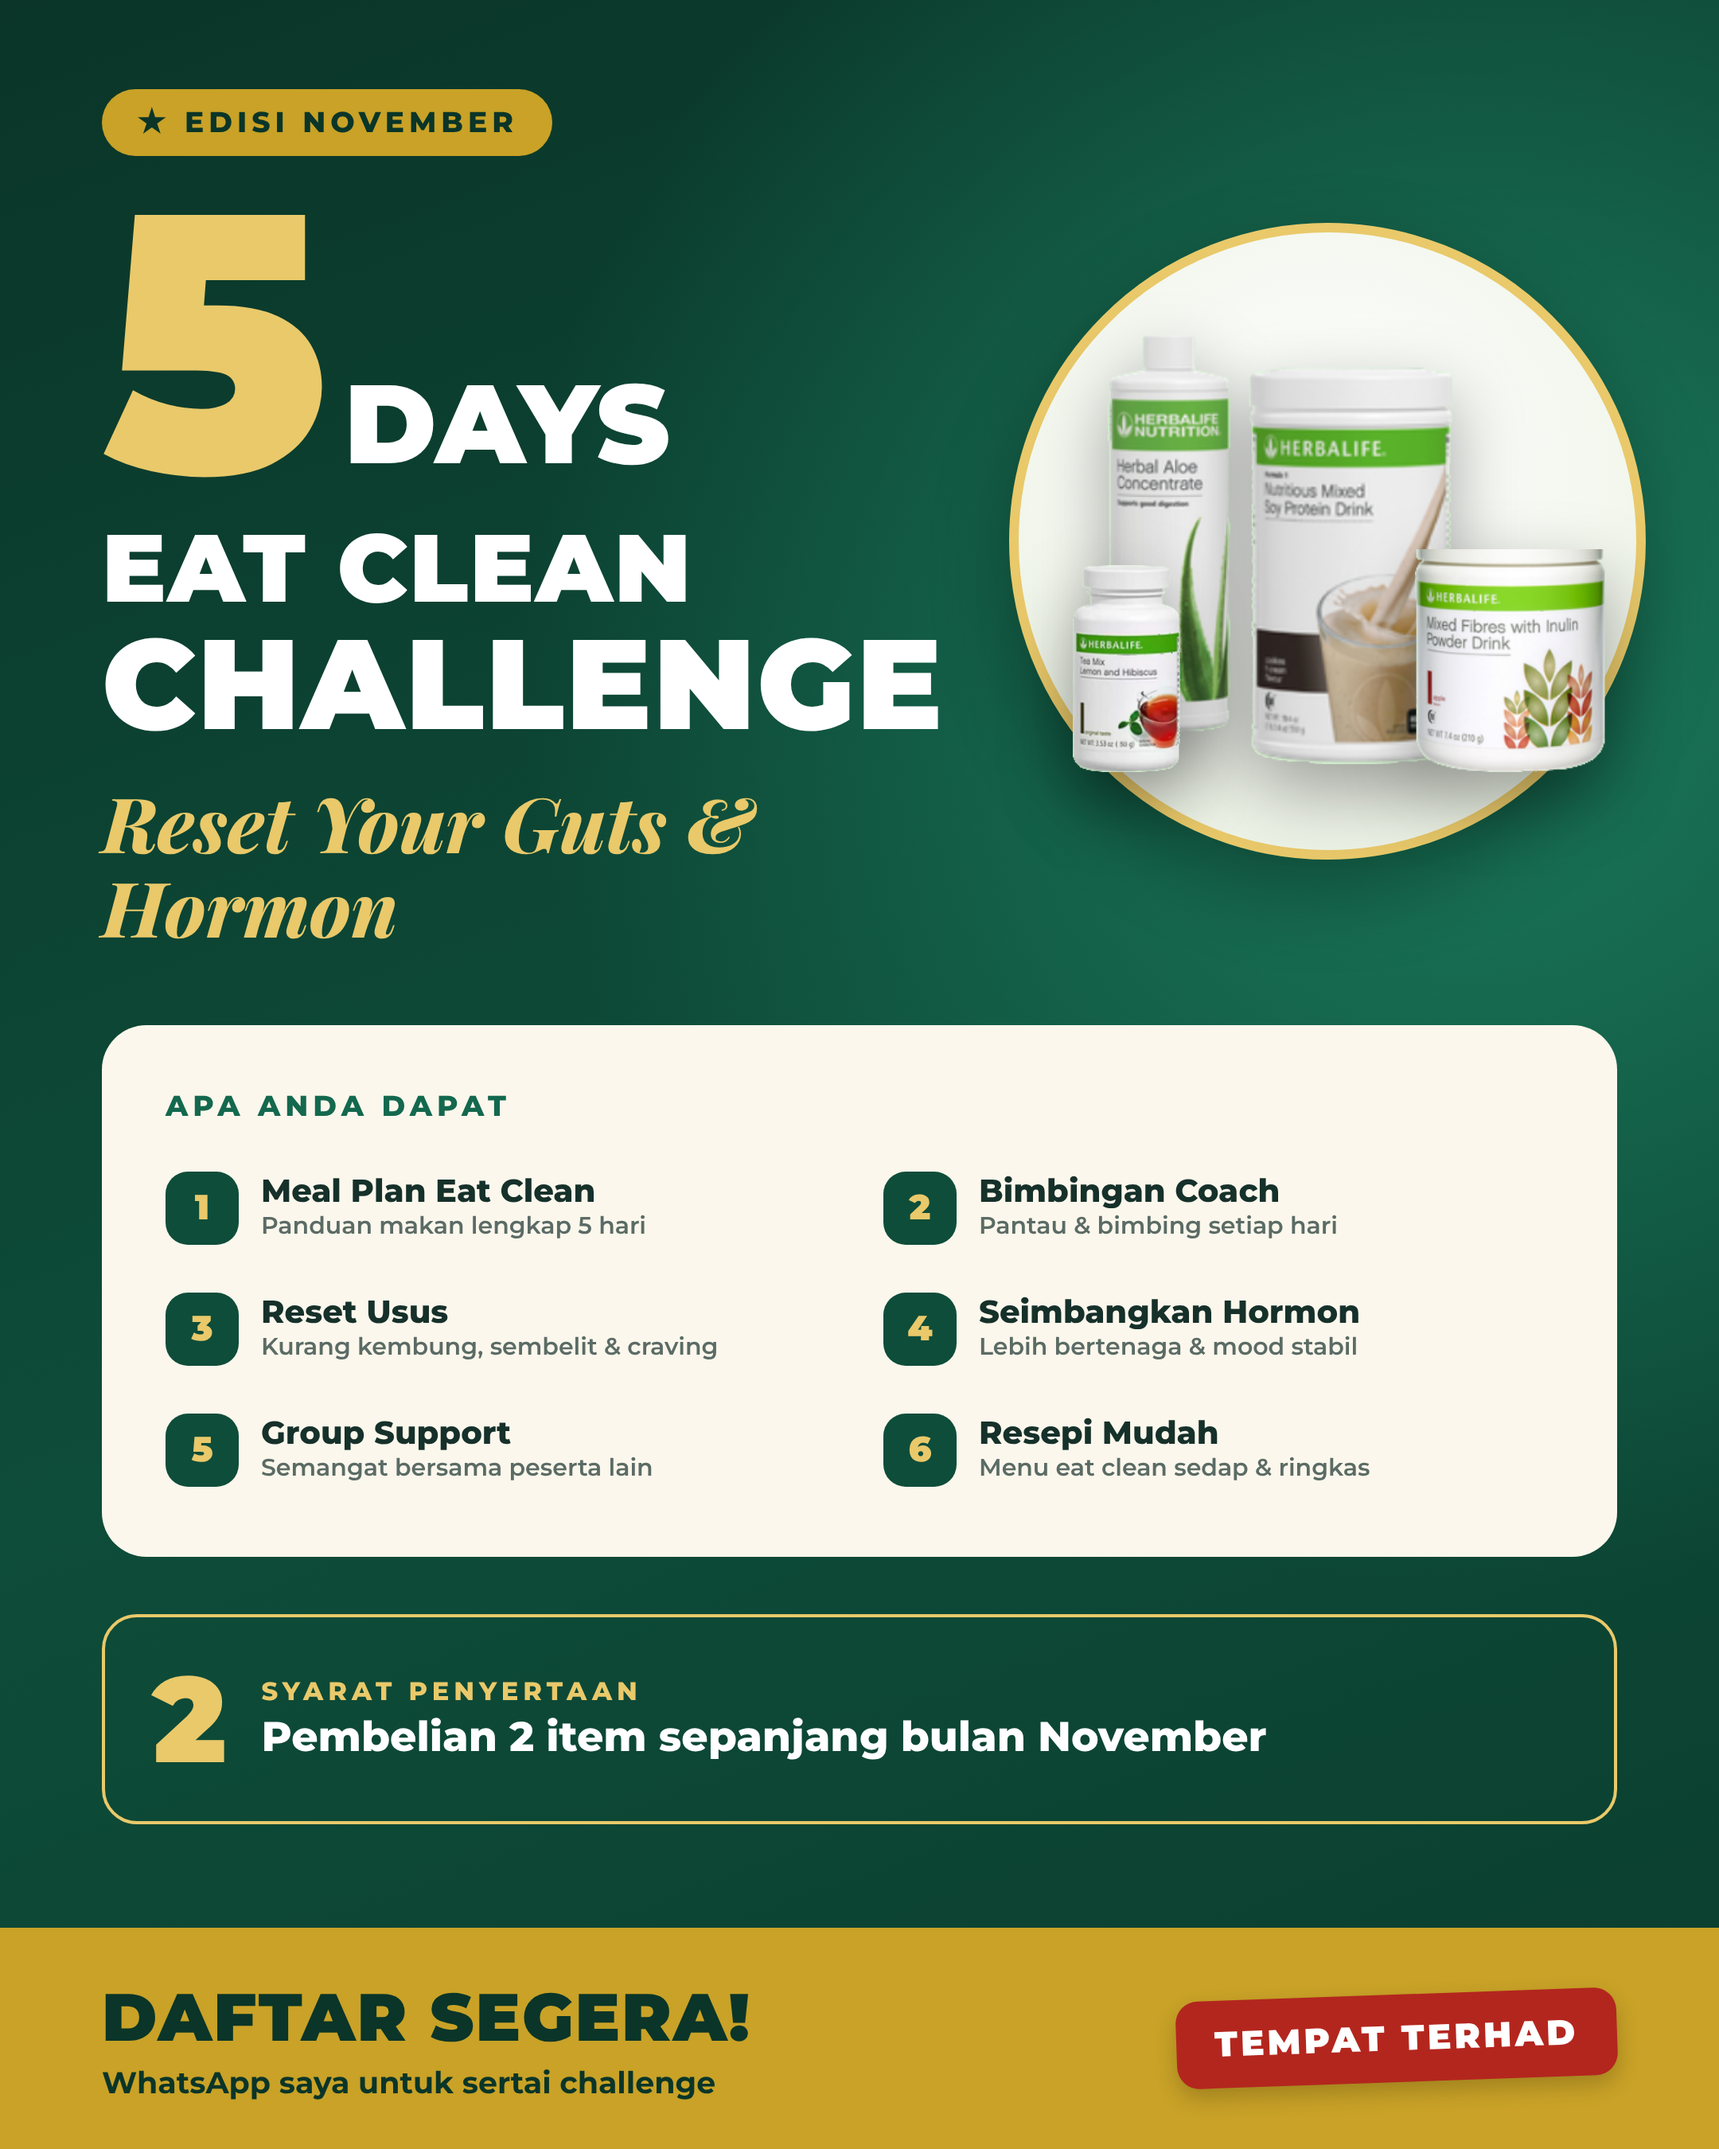
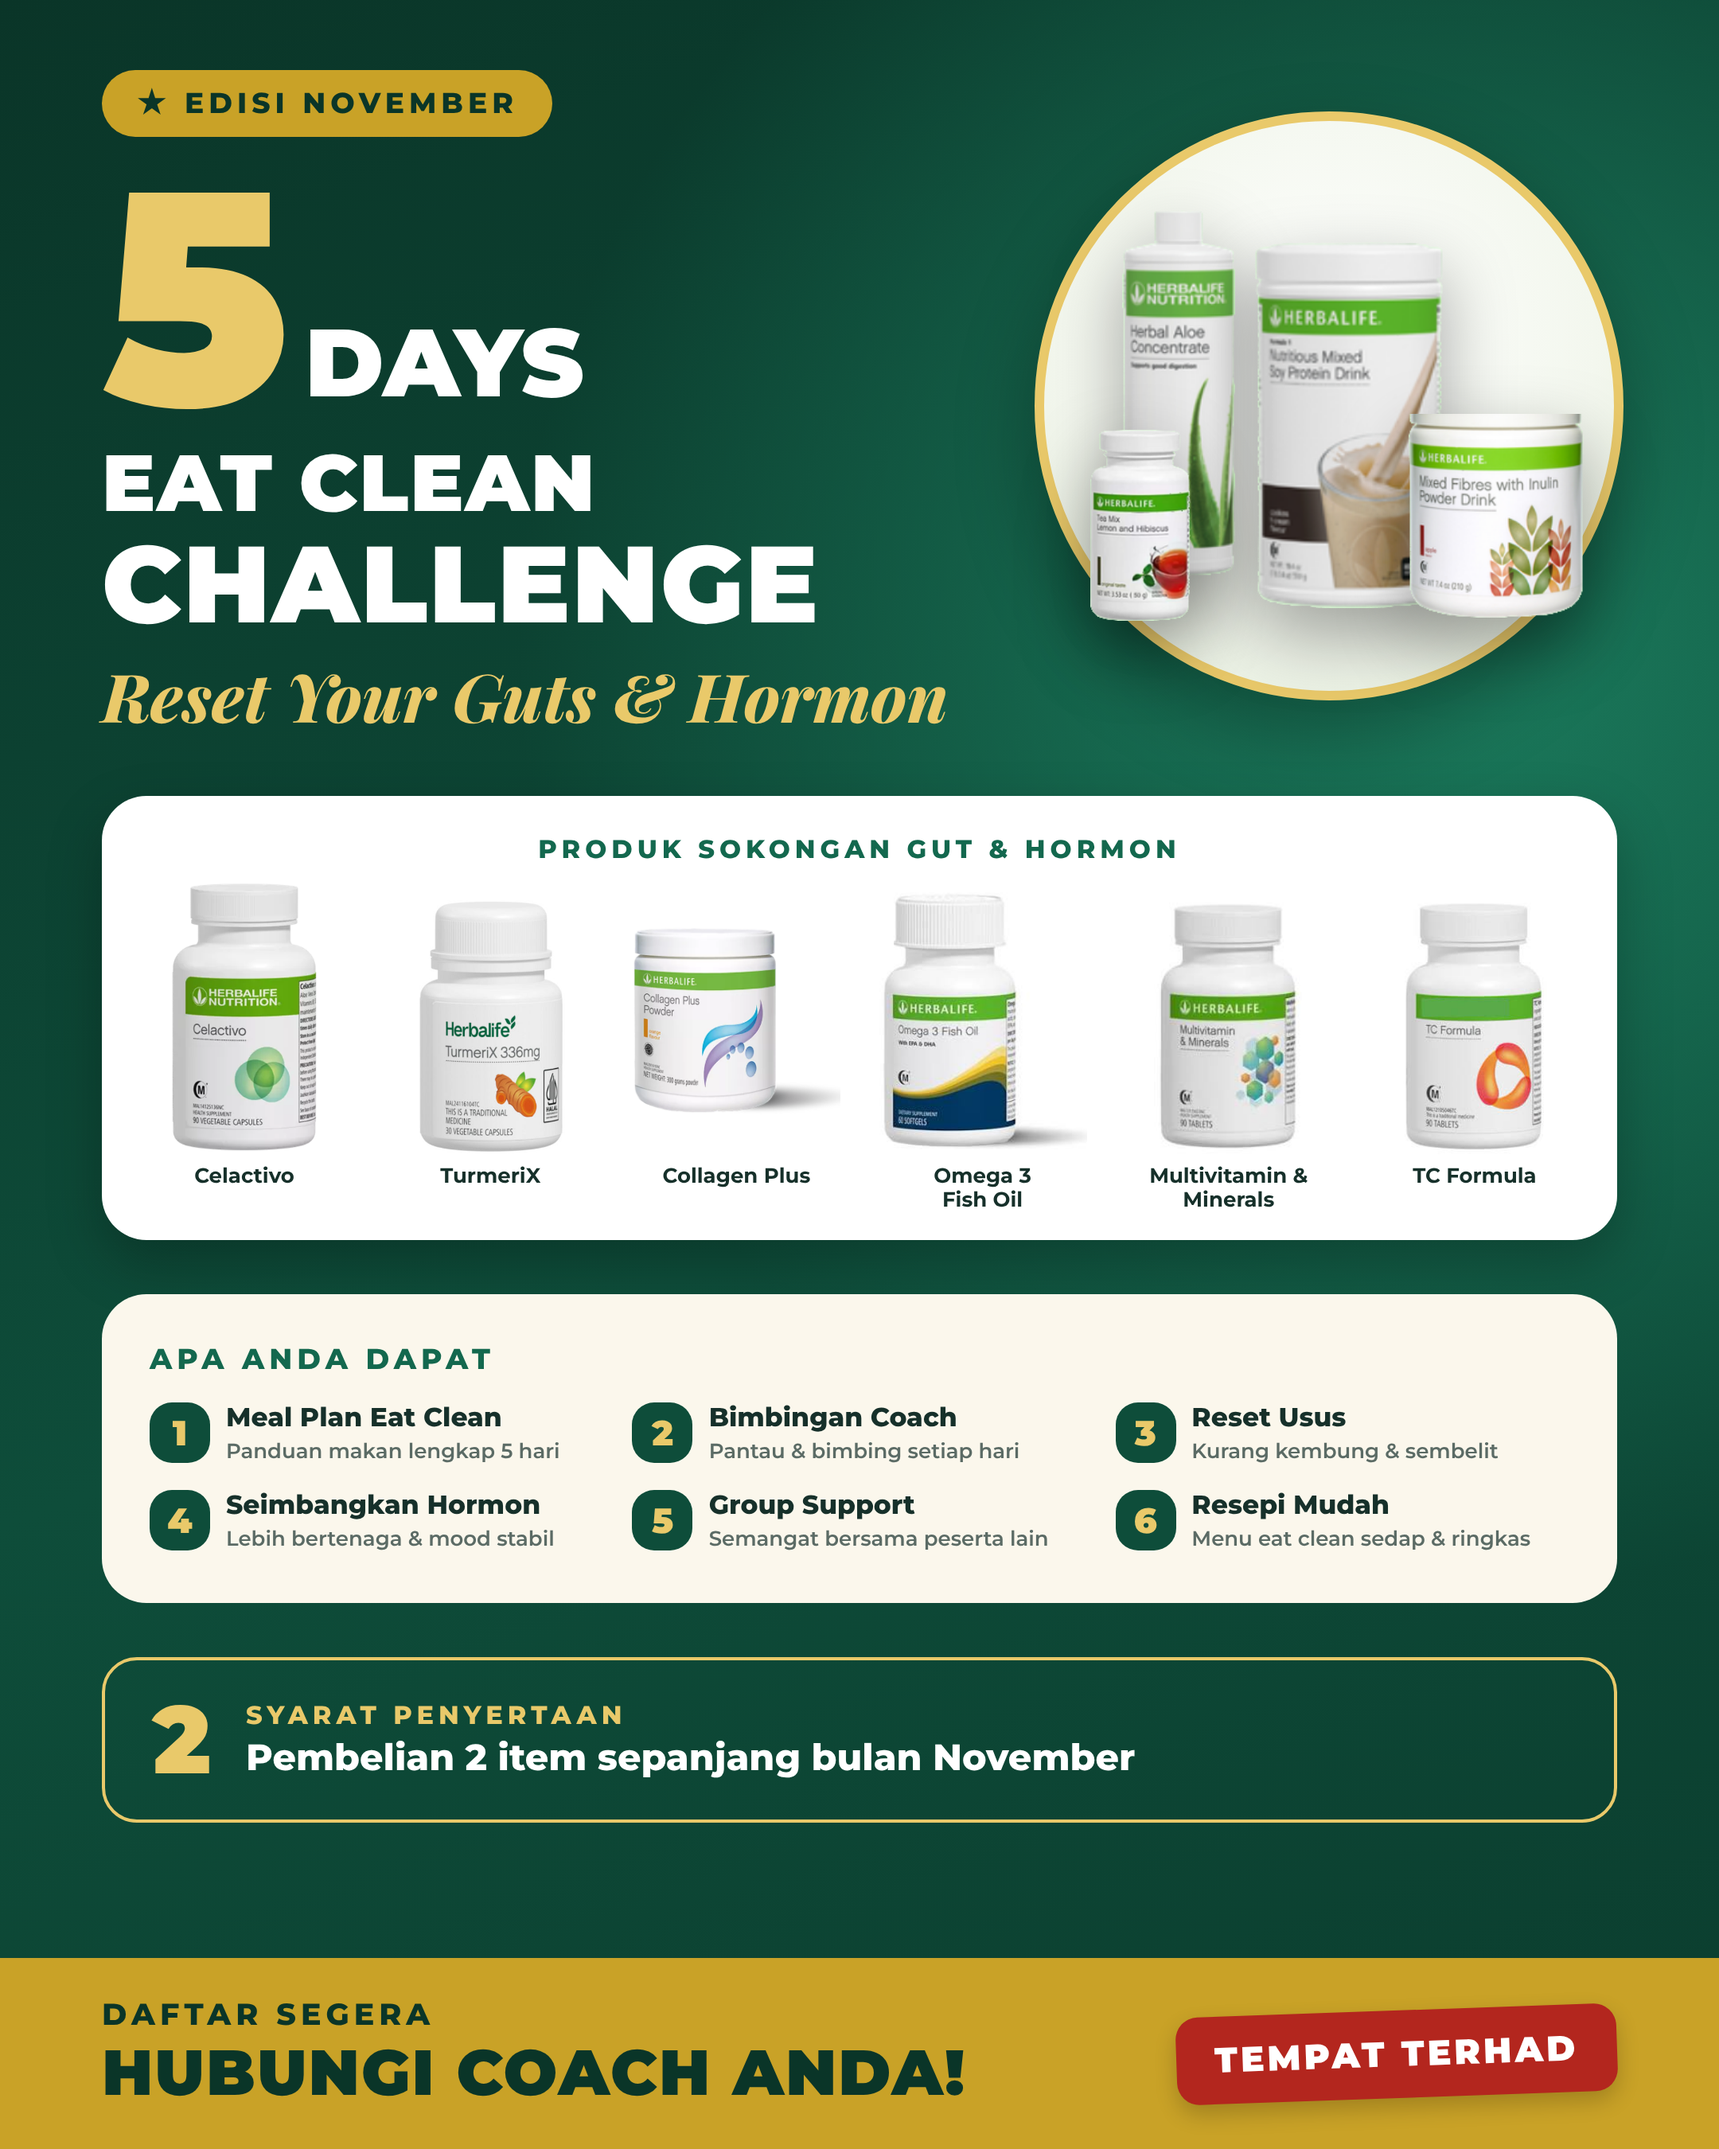
Eat Clean flyer: add supplement product shelf and coach CTA
Claude-Session: https://claude.ai/code/session_01L26z2pMzNkChAWFaCWZq1L

diff --git a/eatclean/flyer.html b/eatclean/flyer.html
@@ -5,36 +5,43 @@
 *{box-sizing:border-box;margin:0;padding:0}
 body{width:1080px;height:1350px;font-family:Montserrat,sans-serif;color:#fff;overflow:hidden;
 background:radial-gradient(circle at 85% 30%,#1B7A5C 0%,transparent 45%),linear-gradient(160deg,#0A3528 0%,#0E4D3A 55%,#0B3D2E 100%);position:relative}
-.wrap{padding:56px 64px 0;position:relative;z-index:2}
+.wrap{padding:44px 64px 0;position:relative;z-index:2}
 .badge{display:inline-flex;align-items:center;gap:10px;background:var(--gold);color:#0A3528;font-weight:800;letter-spacing:3px;font-size:18px;padding:10px 22px;border-radius:40px}
 .days{display:flex;align-items:flex-end;gap:18px;margin-top:26px}
-.n{font-size:230px;font-weight:900;line-height:.78;color:var(--gold2);letter-spacing:-8px}
-.dl{font-size:70px;font-weight:900;line-height:.95;padding-bottom:4px}
-.title{font-size:60px;font-weight:900;letter-spacing:1px;line-height:1.05;margin-top:22px}
-.title span{display:block;font-size:80px}
-.script{font-family:'Playfair Display',serif;font-style:italic;font-weight:800;color:var(--gold2);font-size:48px;margin-top:18px;max-width:560px;line-height:1.1}
-.prods{position:absolute;right:46px;top:140px;width:400px;height:400px;z-index:1}
+.n{font-size:190px;font-weight:900;line-height:.78;color:var(--gold2);letter-spacing:-8px}
+.dl{font-size:60px;font-weight:900;line-height:.95;padding-bottom:4px}
+.title{font-size:50px;font-weight:900;letter-spacing:1px;line-height:1.05;margin-top:18px}
+.title span{display:block;font-size:68px}
+.script{font-family:'Playfair Display',serif;font-style:italic;font-weight:800;color:var(--gold2);font-size:42px;margin-top:12px;max-width:600px;line-height:1.1}
+.prods{position:absolute;right:60px;top:70px;width:370px;height:370px;z-index:1}
 .glow{position:absolute;inset:0;border-radius:50%;background:radial-gradient(circle at 50% 40%,#FFFFFF 0%,#F3F7EE 60%,#E4EEDB 100%);border:6px solid var(--gold2);box-shadow:0 20px 50px rgba(0,0,0,.3)}
 .prods img{position:absolute;filter:drop-shadow(0 18px 22px rgba(0,0,0,.35))}
-.card{margin:48px 64px 0;background:var(--cream);color:var(--ink);border-radius:28px;padding:40px 40px 44px;position:relative;z-index:2;display:grid;grid-template-columns:1fr 1fr;gap:30px 30px}
+.card{margin:34px 64px 0;background:var(--cream);color:var(--ink);border-radius:28px;padding:30px 30px 32px;position:relative;z-index:2;display:grid;grid-template-columns:1fr 1fr;gap:16px 18px}
 .card h3{grid-column:1/-1;font-size:18px;letter-spacing:3px;color:var(--em2);font-weight:800}
-.it{display:flex;gap:14px;align-items:flex-start}
-.ic{flex:none;width:46px;height:46px;border-radius:14px;background:var(--em);color:var(--gold2);display:flex;align-items:center;justify-content:center;font-size:22px;font-weight:900}
-.it b{display:block;font-size:20px;font-weight:800;line-height:1.2}
-.it small{font-size:15px;font-weight:600;color:#5B6B65;line-height:1.3}
-.cond{margin:36px 64px 0;border:2px solid var(--gold2);border-radius:22px;padding:26px 30px;display:flex;align-items:center;gap:22px;position:relative;z-index:2}
-.cond .big{font-size:76px;font-weight:900;color:var(--gold2);line-height:1}
+.it{display:flex;gap:10px;align-items:flex-start}
+.ic{flex:none;width:38px;height:38px;border-radius:14px;background:var(--em);color:var(--gold2);display:flex;align-items:center;justify-content:center;font-size:22px;font-weight:900}
+.it b{display:block;font-size:16.5px;font-weight:800;line-height:1.2}
+.it small{font-size:13px;font-weight:600;color:#5B6B65;line-height:1.3}
+.cond{margin:34px 64px 0;border:2px solid var(--gold2);border-radius:22px;padding:20px 30px;display:flex;align-items:center;gap:22px;position:relative;z-index:2}
+.cond .big{font-size:60px;font-weight:900;color:var(--gold2);line-height:1}
 .cond .t{font-size:16px;letter-spacing:3px;color:var(--gold2);font-weight:800}
-.cond .d{font-size:26px;font-weight:800;line-height:1.2;margin-top:4px}
-.cta{position:absolute;left:0;right:0;bottom:0;background:var(--gold);color:#0A3528;padding:30px 64px;display:flex;align-items:center;justify-content:space-between;z-index:2}
-.cta .a{font-size:42px;font-weight:900;letter-spacing:1px}
+.cond .d{font-size:23px;font-weight:800;line-height:1.2;margin-top:4px}
+.cta{position:absolute;left:0;right:0;bottom:0;background:var(--gold);color:#0A3528;padding:24px 64px;display:flex;align-items:center;justify-content:space-between;z-index:2}
+.cta .a{font-size:40px;font-weight:900;letter-spacing:1px}
 .cta .b{background:var(--red);color:#fff;font-weight:900;font-size:22px;letter-spacing:2px;padding:14px 24px;border-radius:14px;transform:rotate(-2deg);box-shadow:0 6px 14px rgba(0,0,0,.2)}
+.shelf{margin:40px 64px 0;background:#fff;border-radius:28px;padding:24px 24px 18px;position:relative;z-index:2;box-shadow:0 14px 34px rgba(0,0,0,.25)}
+.shelf h3{font-size:16px;letter-spacing:3px;color:var(--em2);font-weight:800;text-align:center;margin-bottom:10px}
+.row{display:flex;align-items:flex-end;justify-content:space-between}
+.sp{display:flex;flex-direction:column;align-items:center;width:14.5%}
+.sp img{mix-blend-mode:multiply;object-fit:contain;max-width:100%}
+.sp span{font-size:13px;font-weight:700;color:var(--ink);margin-top:6px;text-align:center;line-height:1.15;min-height:30px}
+.card{grid-template-columns:1fr 1fr 1fr!important}
 </style></head><body>
 <div class="prods"><div class="glow"></div>
-  <img src="img/aloe.png" style="height:250px;left:62px;top:70px">
-  <img src="img/f1.png" style="height:250px;left:150px;top:90px">
-  <img src="img/fibre.png" style="height:140px;left:255px;top:205px">
-  <img src="img/tea.png" style="height:130px;left:40px;top:215px">
+  <img src="img/aloe.png" style="height:230px;left:55px;top:62px">
+  <img src="img/f1.png" style="height:230px;left:138px;top:82px">
+  <img src="img/fibre.png" style="height:128px;left:235px;top:190px">
+  <img src="img/tea.png" style="height:120px;left:35px;top:200px">
 </div>
 <div class="wrap">
   <div class="badge">★ EDISI NOVEMBER</div>
@@ -42,11 +49,19 @@ background:radial-gradient(circle at 85% 30%,#1B7A5C 0%,transparent 45%),linear-
   <div class="title">EAT CLEAN<span>CHALLENGE</span></div>
   <div class="script">Reset Your Guts &amp; Hormon</div>
 </div>
+<div class="shelf"><h3>PRODUK SOKONGAN GUT &amp; HORMON</h3><div class="row">
+  <div class="sp"><img src="img/celactivo.png" style="height:172px"><span>Celactivo</span></div>
+  <div class="sp"><img src="img/turmerix.png" style="height:160px"><span>TurmeriX</span></div>
+  <div class="sp"><img src="img/collagen.png" style="height:168px"><span>Collagen Plus</span></div>
+  <div class="sp"><img src="img/omega.png" style="height:168px"><span>Omega 3<br>Fish Oil</span></div>
+  <div class="sp"><img src="img/multi.png" style="height:160px"><span>Multivitamin &amp; Minerals</span></div>
+  <div class="sp"><img src="img/tc.png" style="height:160px"><span>TC Formula</span></div>
+</div></div>
 <div class="card">
   <h3>APA ANDA DAPAT</h3>
   <div class="it"><div class="ic">1</div><div><b>Meal Plan Eat Clean</b><small>Panduan makan lengkap 5 hari</small></div></div>
   <div class="it"><div class="ic">2</div><div><b>Bimbingan Coach</b><small>Pantau &amp; bimbing setiap hari</small></div></div>
-  <div class="it"><div class="ic">3</div><div><b>Reset Usus</b><small>Kurang kembung, sembelit &amp; craving</small></div></div>
+  <div class="it"><div class="ic">3</div><div><b>Reset Usus</b><small>Kurang kembung &amp; sembelit</small></div></div>
   <div class="it"><div class="ic">4</div><div><b>Seimbangkan Hormon</b><small>Lebih bertenaga &amp; mood stabil</small></div></div>
   <div class="it"><div class="ic">5</div><div><b>Group Support</b><small>Semangat bersama peserta lain</small></div></div>
   <div class="it"><div class="ic">6</div><div><b>Resepi Mudah</b><small>Menu eat clean sedap &amp; ringkas</small></div></div>
@@ -55,5 +70,5 @@ background:radial-gradient(circle at 85% 30%,#1B7A5C 0%,transparent 45%),linear-
   <div class="big">2</div>
   <div><div class="t">SYARAT PENYERTAAN</div><div class="d">Pembelian 2 item sepanjang bulan November</div></div>
 </div>
-<div class="cta"><div><div class="a">DAFTAR SEGERA!</div><div style="font-size:19px;font-weight:700;margin-top:4px">WhatsApp saya untuk sertai challenge</div></div><div class="b">TEMPAT TERHAD</div></div>
+<div class="cta"><div><div style="font-size:19px;font-weight:800;letter-spacing:3px">DAFTAR SEGERA</div><div class="a">HUBUNGI COACH ANDA!</div></div><div class="b">TEMPAT TERHAD</div></div>
 </body></html>
